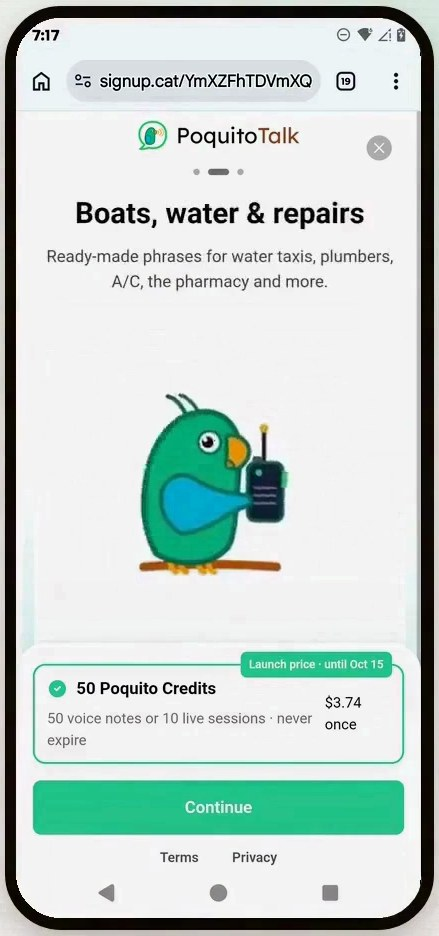
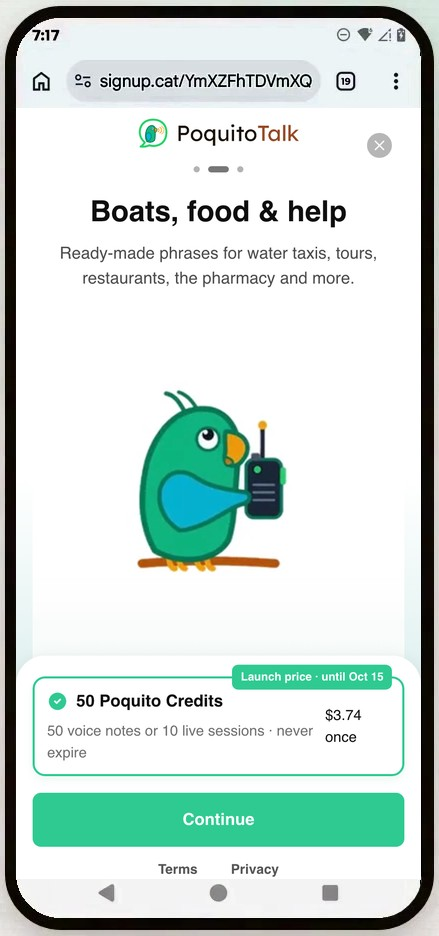
fix(web): funnel slide 2 speaks to tourists

diff --git a/web-funnel/funnel.html b/web-funnel/funnel.html
@@ -1208,7 +1208,7 @@
       </div>
       <div class="phones">
         <figure><img src="funnel/slide1.jpg" alt="Funnel slide: Speak Bocas Spanish" loading="lazy" /><figcaption><b>1. Speak Bocas Spanish</b>What PoquitoTalk does, with Poquito talking.</figcaption></figure>
-        <figure><img src="funnel/slide2.jpg" alt="Funnel slide: Boats, water and repairs" loading="lazy" /><figcaption><b>2. Boats, water &amp; repairs</b>The ready-made phrases a visitor actually needs.</figcaption></figure>
+        <figure><img src="funnel/slide2.jpg" alt="Funnel slide: Boats, food and help" loading="lazy" /><figcaption><b>2. Boats, food &amp; help</b>The ready-made phrases a visitor actually needs.</figcaption></figure>
         <figure><img src="funnel/checkout.jpg" alt="Stripe checkout with Google Pay for the 50 Poquito Credits Pack" loading="lazy" /><figcaption><b>3. Checkout</b>Stripe, with Google Pay: one tap on a phone.</figcaption></figure>
         <figure><img src="funnel/thank_you.jpg" alt="Thank-you page: your 50 credits are on their way" loading="lazy" /><figcaption><b>4. Thank you</b>Install the app, then tap "Open in PoquitoTalk": the credits arrive. Video: <a href="https://youtu.be/fTFZ1pqm_HQ?t=65" target="_blank" rel="noopener">1:05</a>.</figcaption></figure>
       </div>

diff --git a/scripts/build_award_pages.py b/scripts/build_award_pages.py
@@ -105,7 +105,7 @@ FUNNEL = f"""
       </div>
       <div class="phones">
         <figure><img src="funnel/slide1.jpg" alt="Funnel slide: Speak Bocas Spanish" loading="lazy" /><figcaption><b>1. Speak Bocas Spanish</b>What PoquitoTalk does, with Poquito talking.</figcaption></figure>
-        <figure><img src="funnel/slide2.jpg" alt="Funnel slide: Boats, water and repairs" loading="lazy" /><figcaption><b>2. Boats, water &amp; repairs</b>The ready-made phrases a visitor actually needs.</figcaption></figure>
+        <figure><img src="funnel/slide2.jpg" alt="Funnel slide: Boats, food and help" loading="lazy" /><figcaption><b>2. Boats, food &amp; help</b>The ready-made phrases a visitor actually needs.</figcaption></figure>
         <figure><img src="funnel/checkout.jpg" alt="Stripe checkout with Google Pay for the 50 Poquito Credits Pack" loading="lazy" /><figcaption><b>3. Checkout</b>Stripe, with Google Pay: one tap on a phone.</figcaption></figure>
         <figure><img src="funnel/thank_you.jpg" alt="Thank-you page: your 50 credits are on their way" loading="lazy" /><figcaption><b>4. Thank you</b>Install the app, then tap "Open in PoquitoTalk": the credits arrive. Video: {yt('1:05')}.</figcaption></figure>
       </div>
